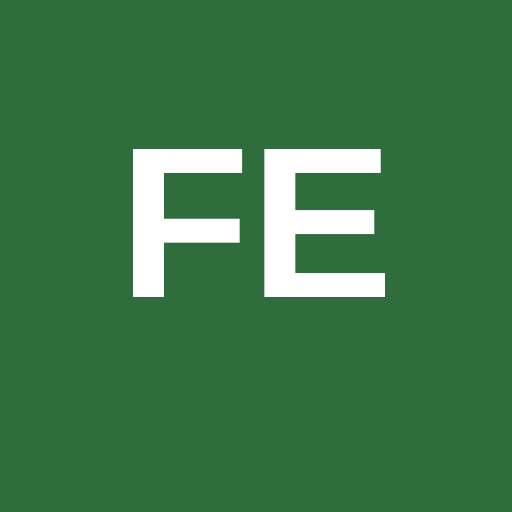
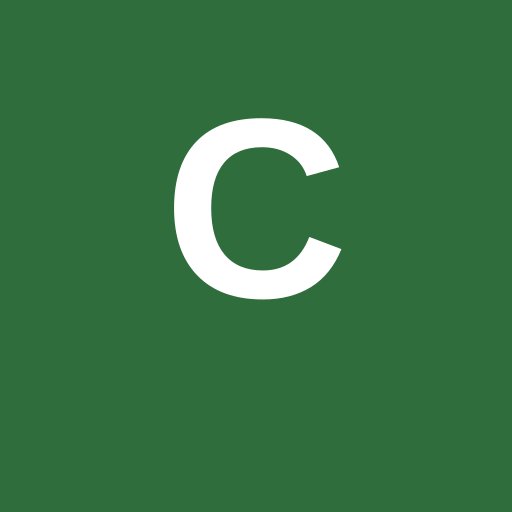
Rename app to Celerity
Claude-Session: https://claude.ai/code/session_01D1v6Qci57MDwJrfHoJUpZz

Changed region(s): [[0.25, 0.2188, 0.75, 0.5938]]

diff --git a/src/app/layout.tsx b/src/app/layout.tsx
@@ -6,10 +6,10 @@ import { isSupabaseConfigured } from "@/lib/env";
 import "./globals.css";
 
 export const metadata: Metadata = {
-  title: "Field Estimator",
+  title: "Celerity",
   description: "Property estimating & job-execution app",
   manifest: "/manifest.json",
-  appleWebApp: { capable: true, statusBarStyle: "default", title: "Field Estimator" },
+  appleWebApp: { capable: true, statusBarStyle: "default", title: "Celerity" },
   icons: {
     apple: "/apple-touch-icon.png",
     icon: [{ url: "/icon-192.png", sizes: "192x192" }, { url: "/icon-512.png", sizes: "512x512" }],
@@ -40,7 +40,7 @@ export default async function RootLayout({ children }: LayoutProps<"/">) {
         <header className="sticky top-0 z-40 border-b border-white/50 bg-card/70 shadow-sm backdrop-blur-xl backdrop-saturate-150">
           <div className="mx-auto flex max-w-7xl items-center justify-between px-4 py-3">
             <Link href="/" className="text-lg font-bold text-primary">
-              Field Estimator
+              Celerity
             </Link>
             <SiteNav userEmail={userEmail} />
           </div>

diff --git a/src/app/login/page.tsx b/src/app/login/page.tsx
@@ -19,7 +19,7 @@ export default async function LoginPage() {
     <div className="mx-auto flex max-w-md flex-col gap-6 px-4 py-16">
       <div>
         <h1 className="text-2xl font-bold">Sign in</h1>
-        <p className="text-muted-foreground">Field Estimator</p>
+        <p className="text-muted-foreground">Celerity</p>
       </div>
       <Card>
         <CardContent className="pt-6">
